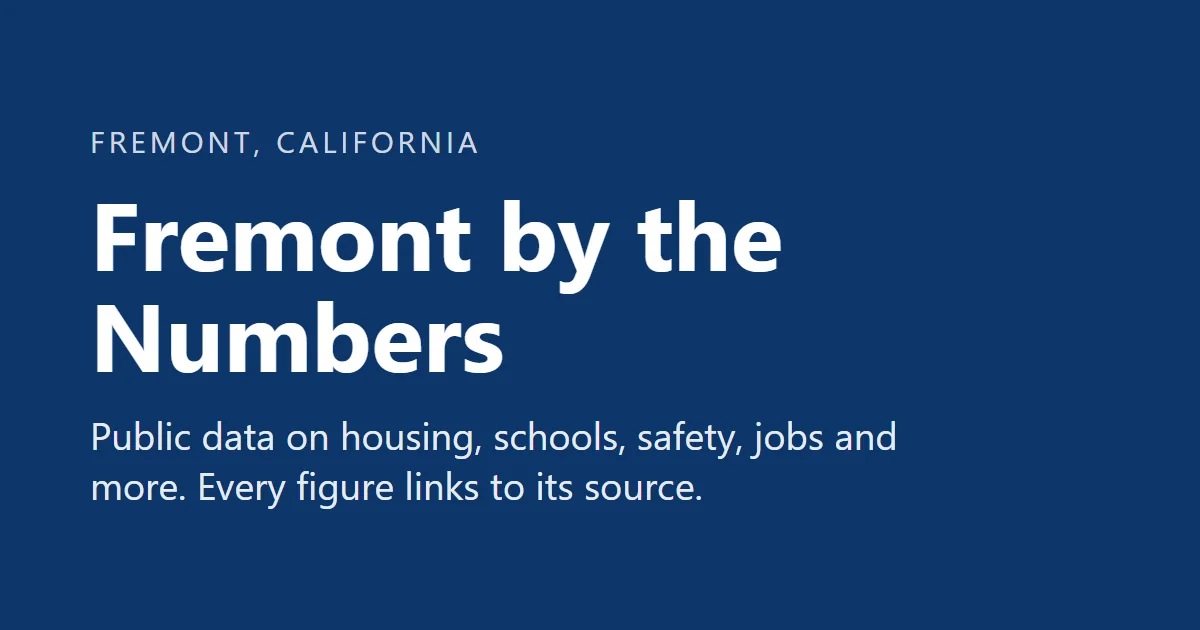
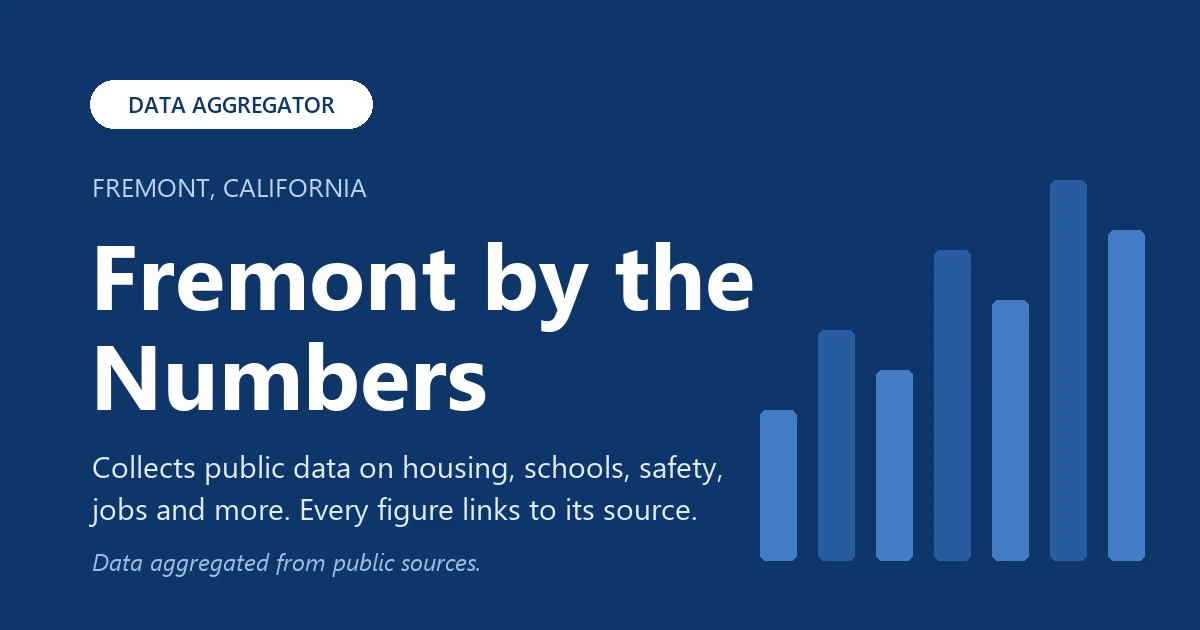
Update Fremont by the Numbers card to note it is a data aggregator

Changed region(s): [[0.0617, 0.2714, 0.9558, 0.9048], [0.0617, 0.1206, 0.4008, 0.2413], [0.0617, 0.8746, 0.4008, 0.9349]]

diff --git a/index.html b/index.html
@@ -259,7 +259,7 @@ footer a:hover{color:var(--ink)}
     </li>
 
     <li class="proj" data-kind="website" data-date="2026-10">
-      <div class="visual wide"><img src="media/fremont.webp" width="1200" height="630" alt="Fremont by the Numbers title card: public data on housing, schools, safety, jobs and more, every figure linked to its source"></div>
+      <div class="visual wide"><img src="media/fremont.webp" width="1200" height="630" alt="Fremont by the Numbers title card: a data aggregator collecting public data on housing, schools, safety, jobs and more, every figure linked to its source"></div>
       <div class="info">
         <div class="meta"><span class="kind">Data aggregator</span><span class="when">Oct 2026</span><span class="pill live">Live</span></div>
         <h2>Fremont by the Numbers</h2>
